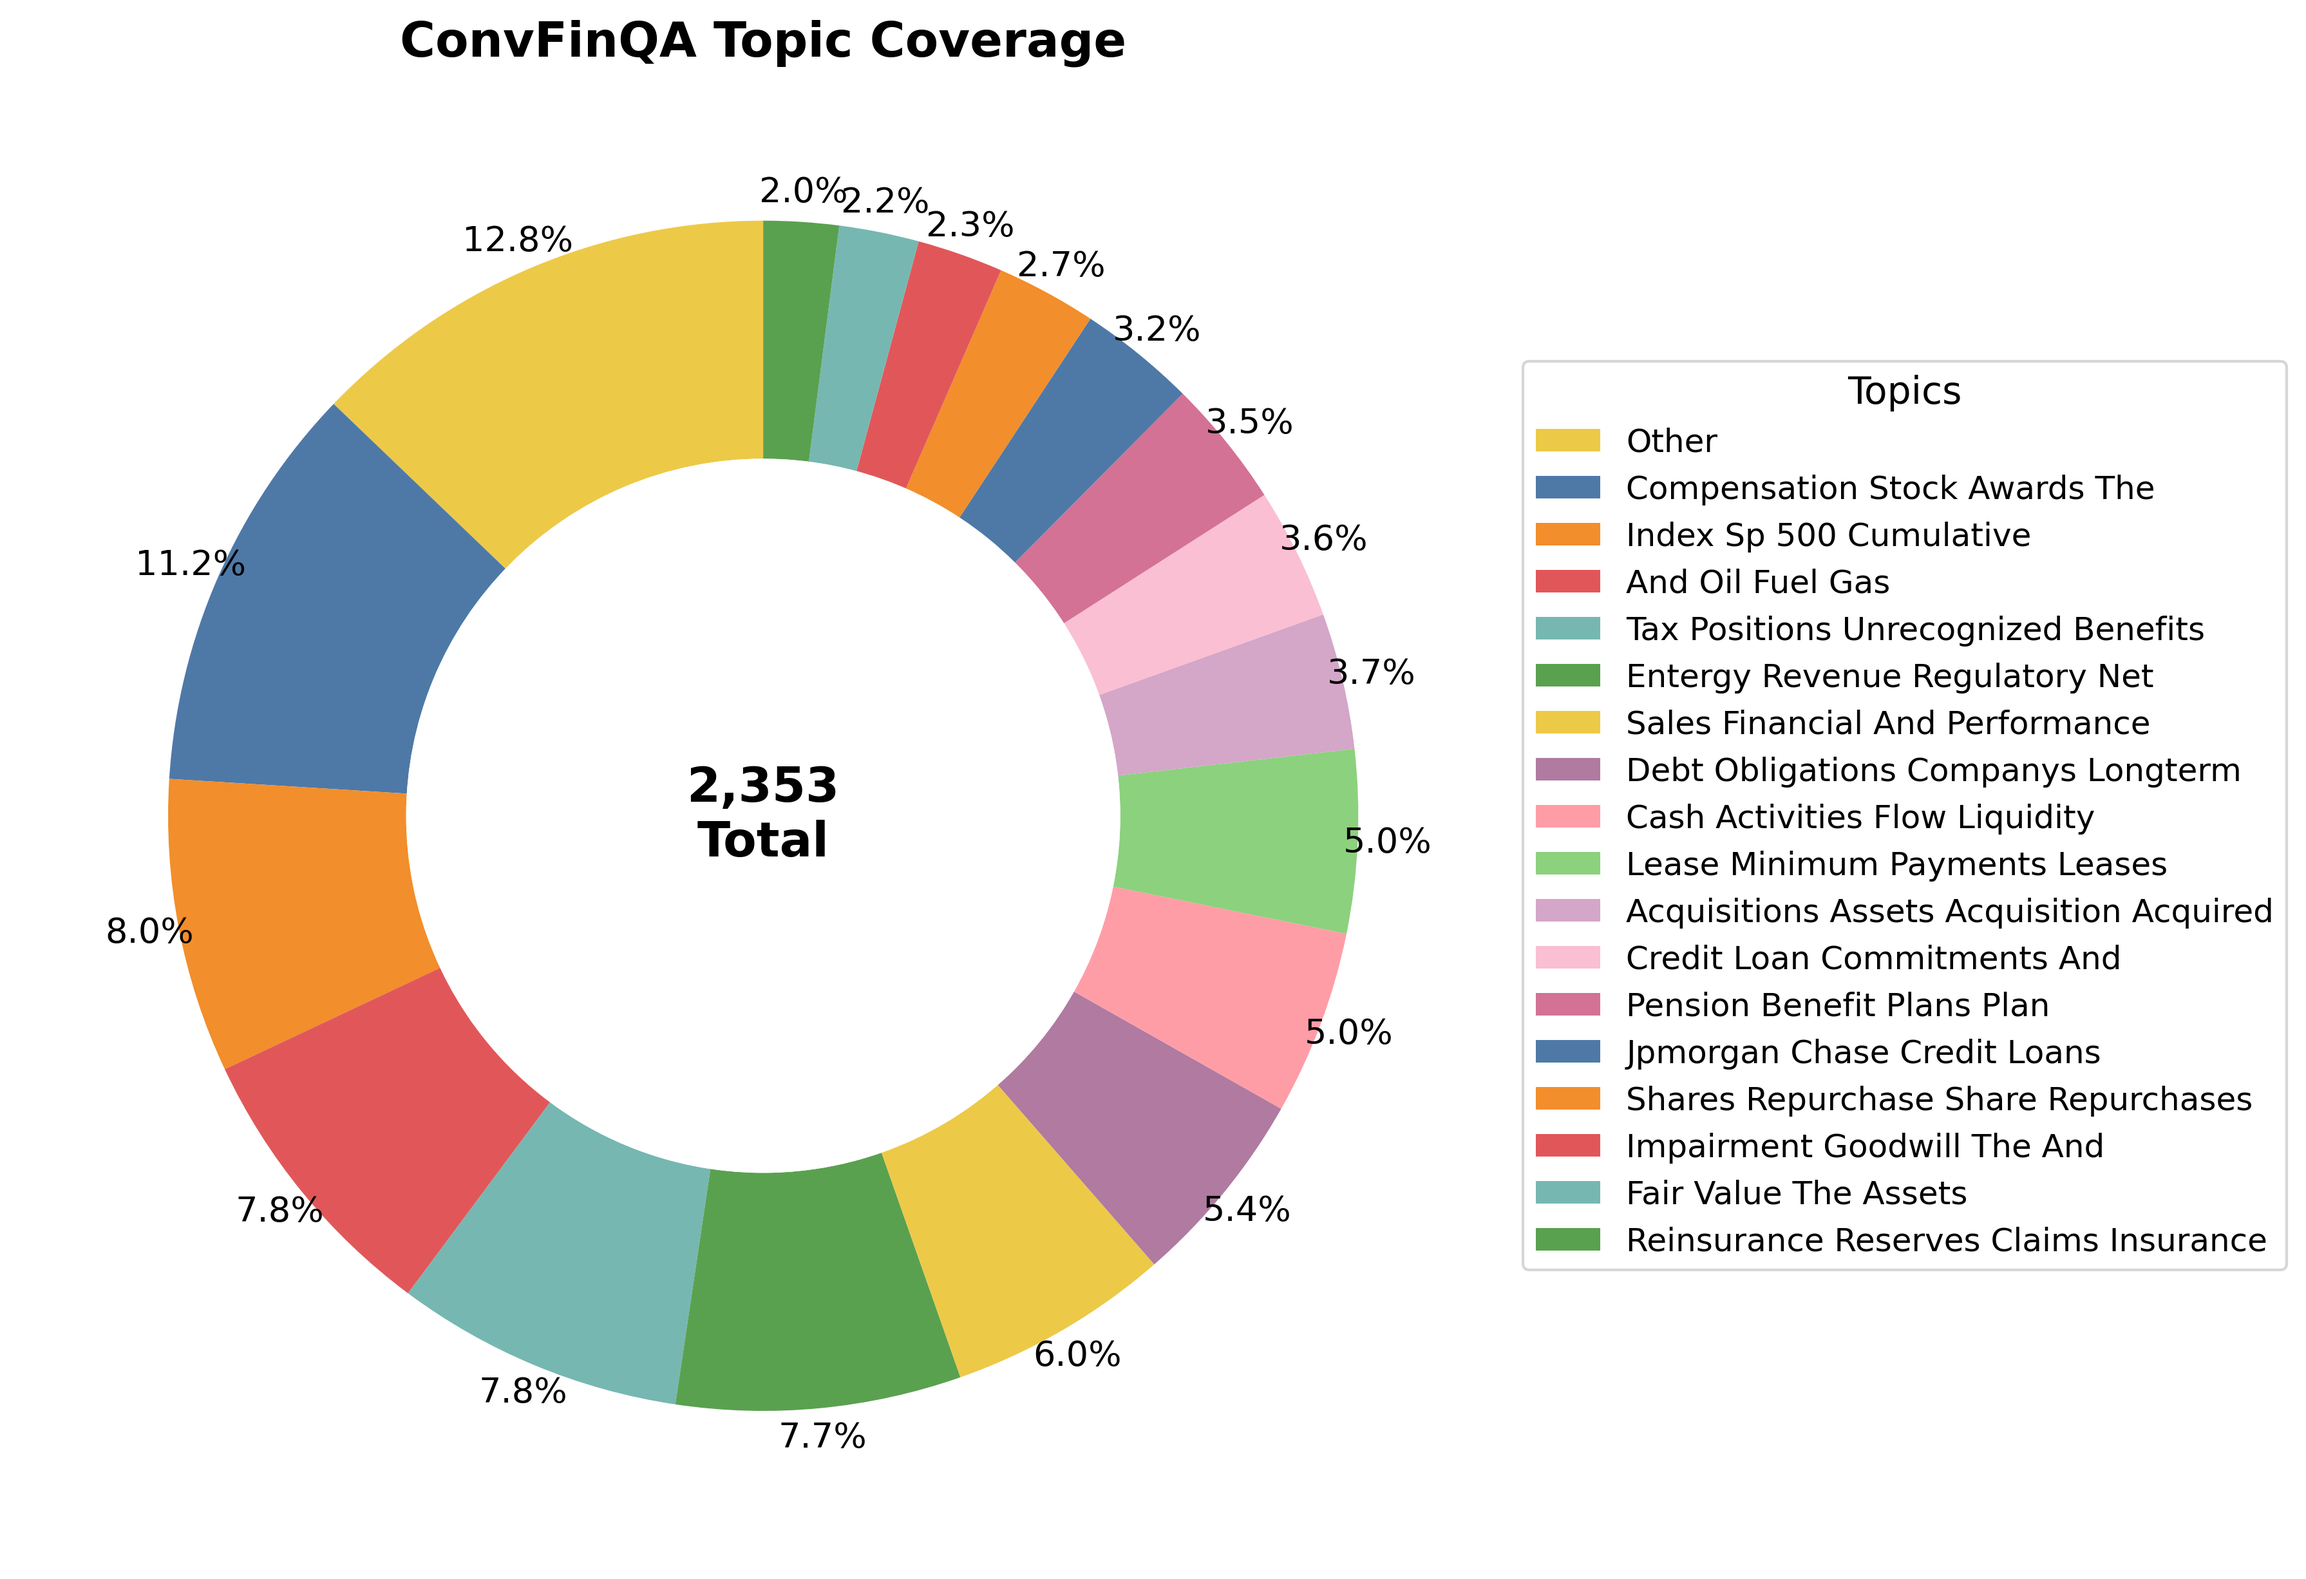
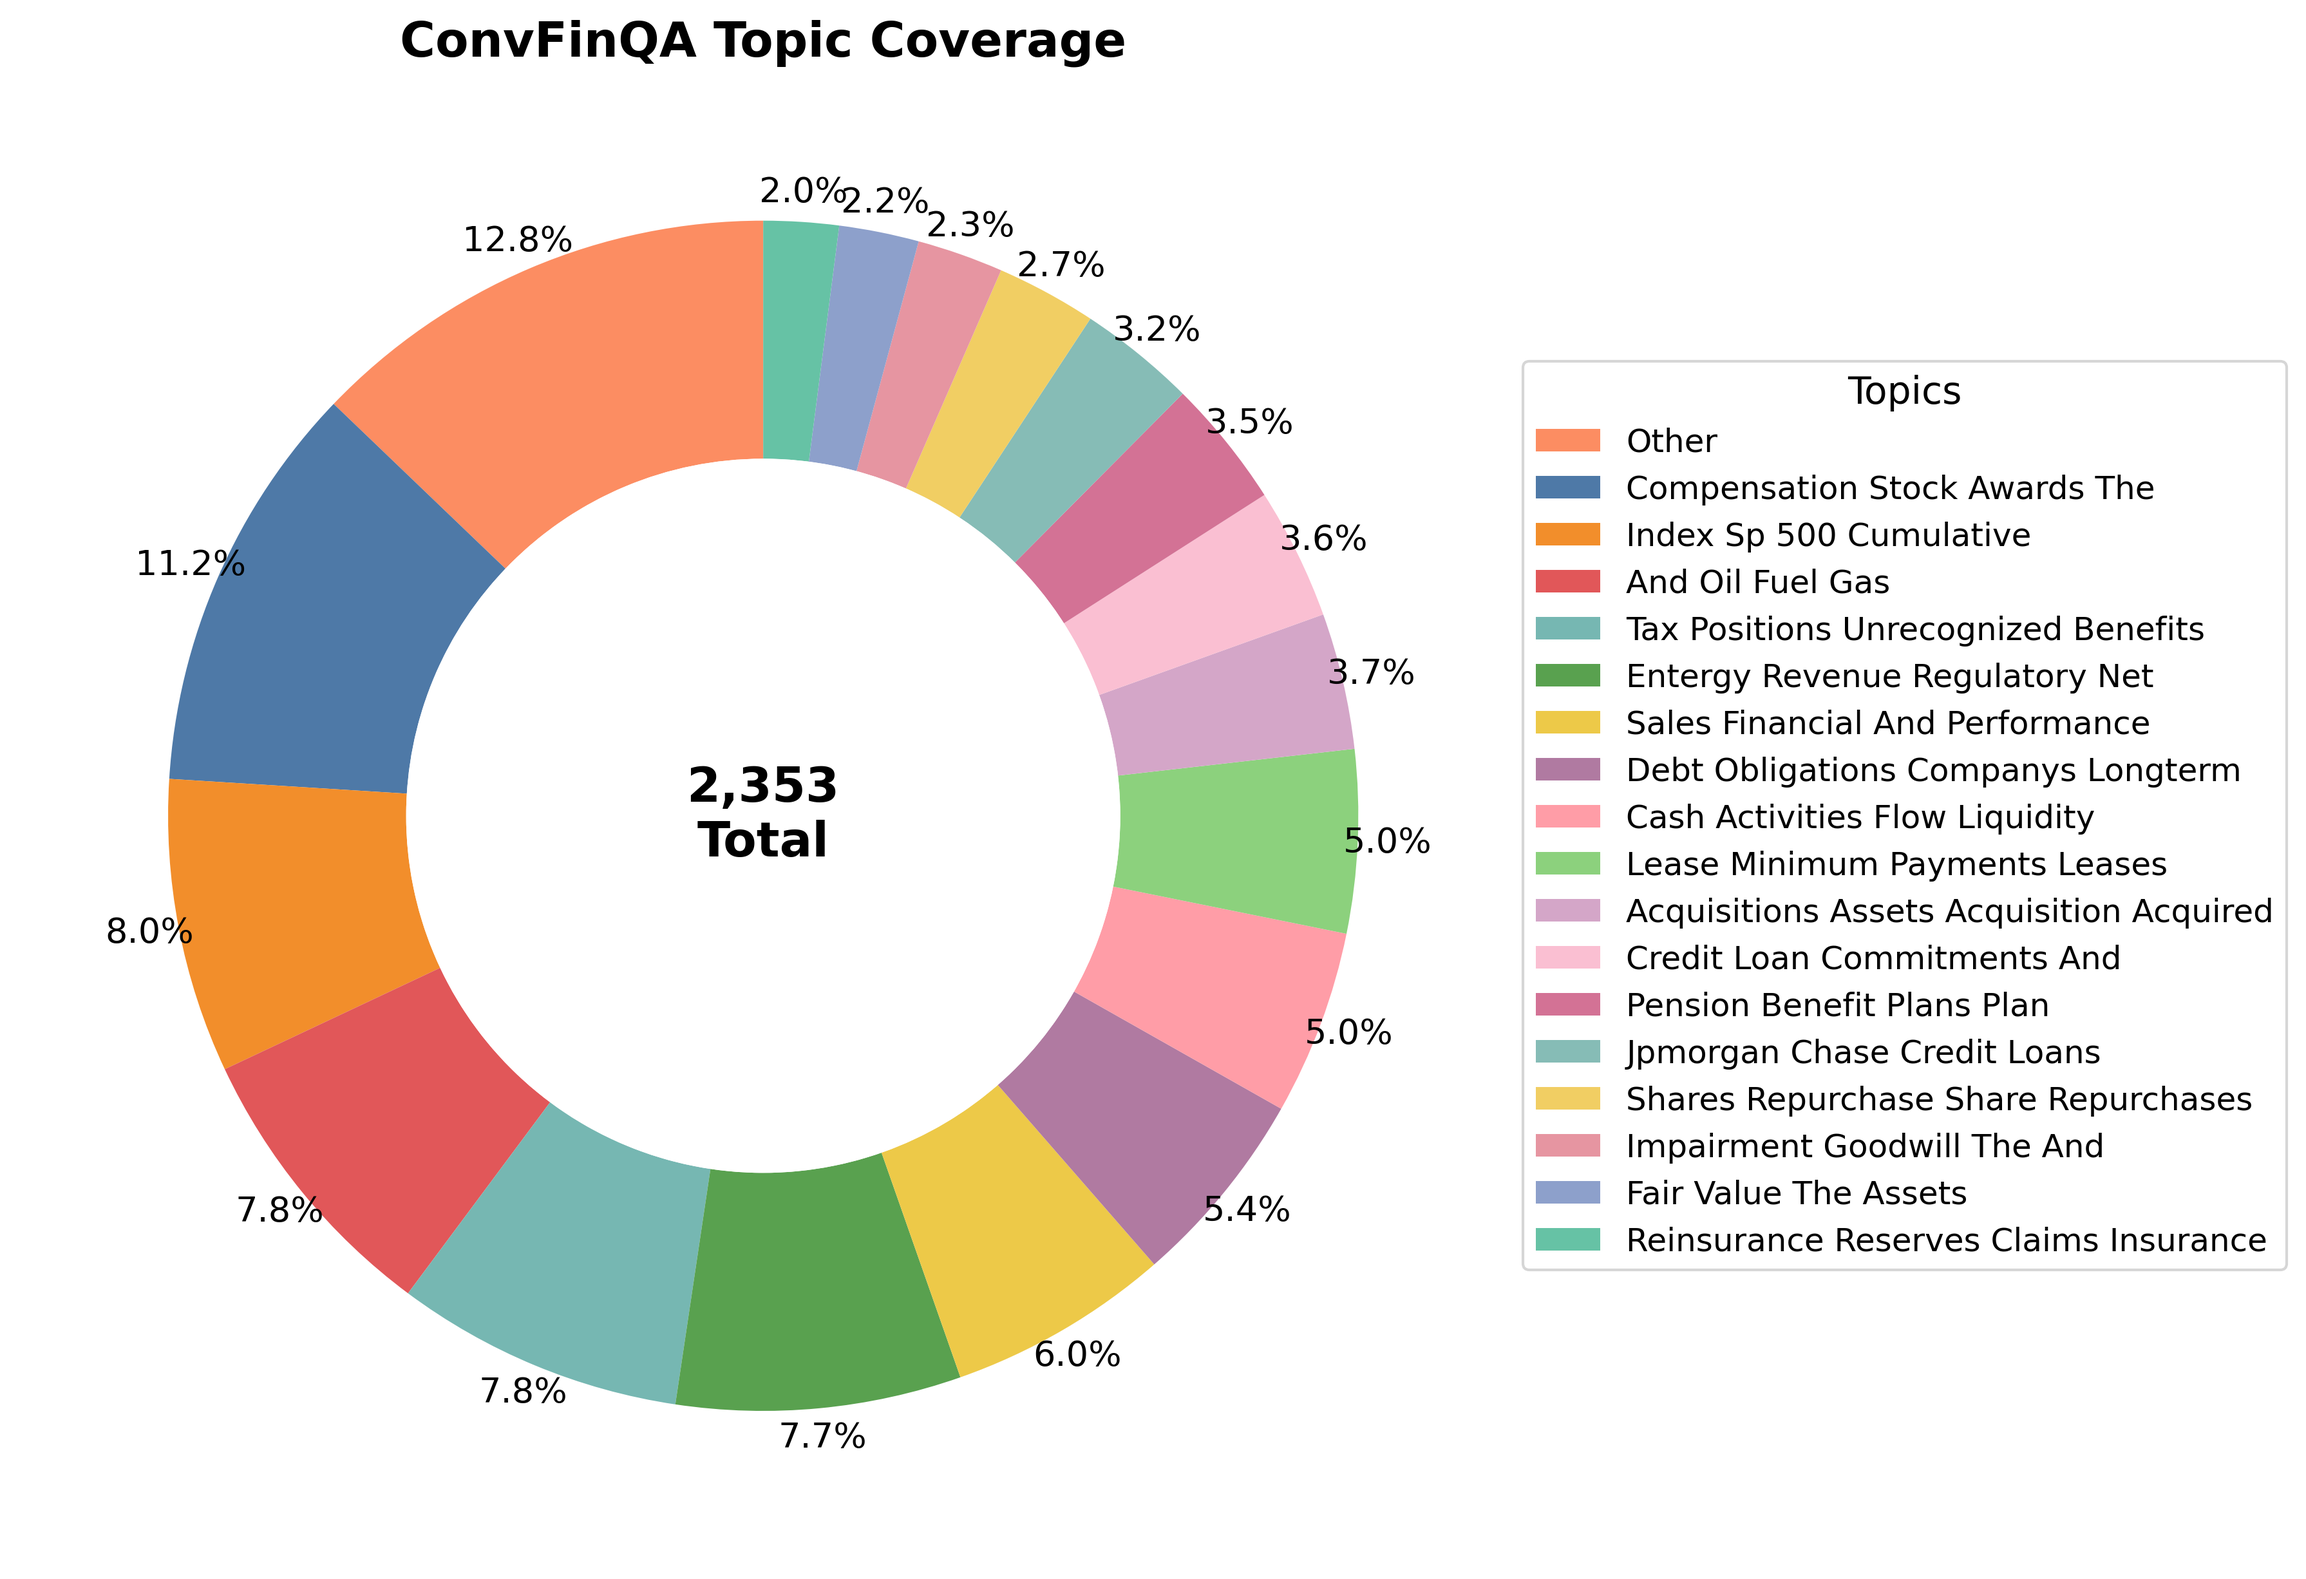
update colors

Changed region(s): [[0.124, 0.124, 0.5269, 0.3719], [0.6509, 0.6509, 0.7129, 0.8059], [0.6509, 0.248, 0.6819, 0.31]]

diff --git a/benchmark_data/bertopic_pie_chart.py b/benchmark_data/bertopic_pie_chart.py
@@ -5,10 +5,22 @@ from math import cos, pi, sin
 from pathlib import Path
 import matplotlib.pyplot as plt
 
+# COLORS = [
+#     "#4E79A7", "#F28E2B", "#E15759", "#76B7B2", "#59A14F",
+#     "#EDC948", "#B07AA1", "#FF9DA7", 
+#     "#8CD17D", "#D4A6C8", "#FABFD2",  "#D37295",
+    
+# ]
+
 COLORS = [
     "#4E79A7", "#F28E2B", "#E15759", "#76B7B2", "#59A14F",
-    "#EDC948", "#B07AA1", "#FF9DA7", 
-    "#8CD17D", "#D4A6C8", "#FABFD2",  "#D37295",
+    "#EDC948", "#B07AA1", "#FF9DA7",
+    "#8CD17D", "#D4A6C8", "#FABFD2", "#D37295",
+    "#86BCB6", "#F1CE63", "#E695A1", "#8DA0CB",
+    "#66C2A5", "#FC8D62", "#E78AC3", "#A6D854",
+    "#FFD92F", "#E5C494", "#B3B3B3", "#A1D99B",
+    "#9EDAE5", "#C7E9C0", "#FDD0A2", "#C6DBEF",
+    "#F2B6CF", "#BDBDBD",
 ]
 
 
